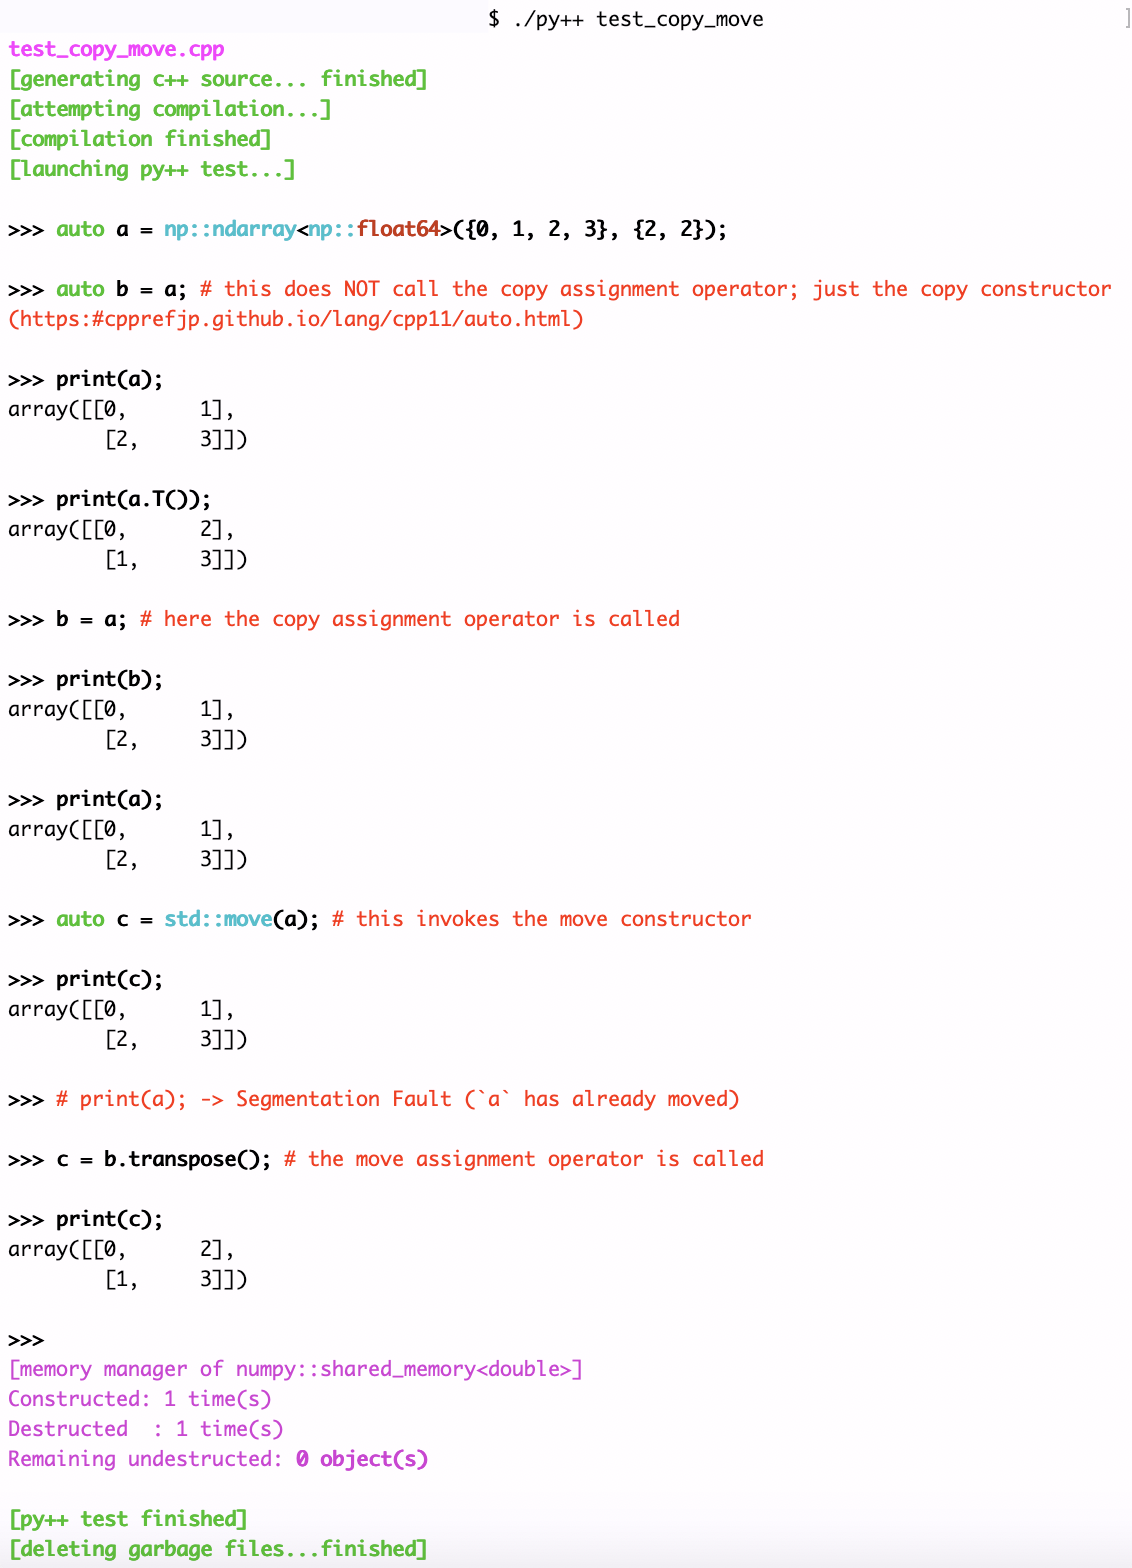
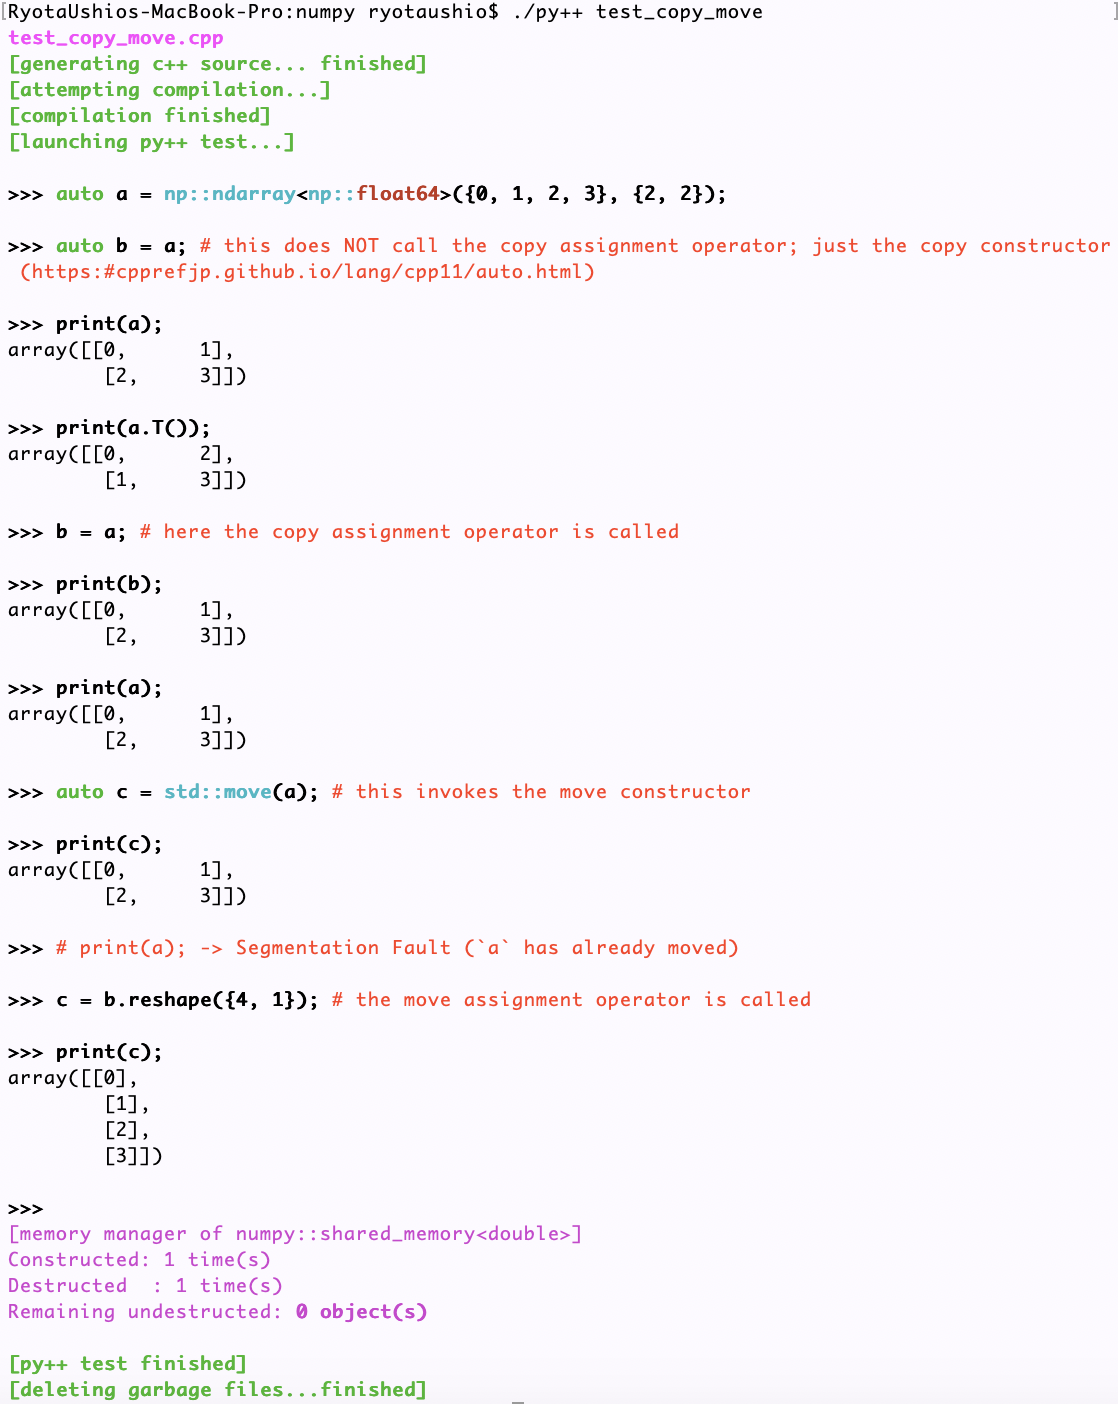
the example in readme is slightly changed, and some files are changed accordingly

diff --git a/test/test_copy_move.cpp b/test/test_copy_move.cpp
@@ -1,11 +1,11 @@
-#include <utility>
+#include <utility> // std::move
 #include <numpy/python.hpp>
 #include <numpy/numpy.hpp>
+
 using namespace python;
 namespace np = numpy;
 
-int main() {
-  
+int main() {  
   auto a = np::ndarray<np::float64>({0, 1, 2, 3}, {2, 2});
   auto b = a; // this does NOT call the copy assignment operator; just the copy constructor (https://cpprefjp.github.io/lang/cpp11/auto.html)
   print(a);
@@ -16,7 +16,6 @@ int main() {
   auto c = std::move(a); // this invokes the move constructor
   print(c);
   // print(a); -> Segmentation Fault (`a` has already moved)
-  c = b.transpose(); // the move assignment operator is called
+  c = b.reshape({4, 1}); // the move assignment operator is called
   print(c);
-  
 }

diff --git a/README.md b/README.md
@@ -8,14 +8,14 @@ For example, Suppose you have [this code](https://github.com/RyotaUshio/numpy/bl
 ```c++
 // test_copy_move.cpp
 
-#include <utility>
+#include <utility> // std::move
 #include <numpy/python.hpp>
 #include <numpy/numpy.hpp>
+
 using namespace python;
 namespace np = numpy;
 
-int main() {
-  
+int main() {  
   auto a = np::ndarray<np::float64>({0, 1, 2, 3}, {2, 2});
   auto b = a; // this does NOT call the copy assignment operator; just the copy constructor (https://cpprefjp.github.io/lang/cpp11/auto.html)
   print(a);
@@ -26,9 +26,8 @@ int main() {
   auto c = std::move(a); // this invokes the move constructor
   print(c);
   // print(a); -> Segmentation Fault (`a` has already moved)
-  c = b.transpose(); // the move assignment operator is called
+  c = b.reshape({4, 1}); // the move assignment operator is called
   print(c);
-  
 }
 ```
 All you have to do to see the result is only type the following command.
